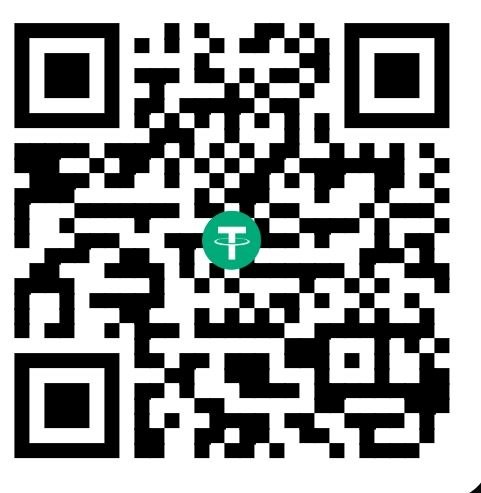
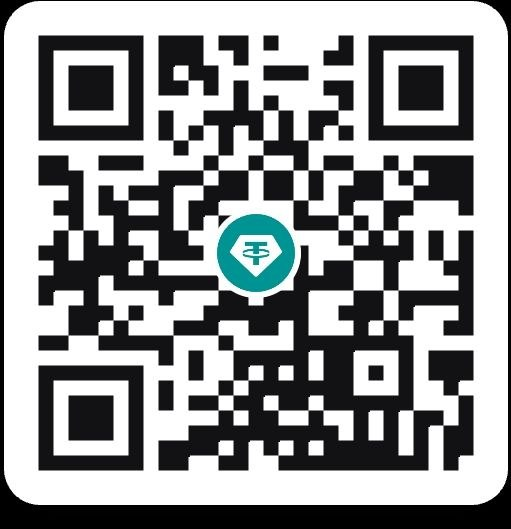
Add files via upload

diff --git a/public/app.js b/public/app.js
@@ -110,7 +110,7 @@ async function refreshFee() { const amount = Number($('#amount-input').value); i
 ['#amount-input','#currency-input','#fee-payer-input'].forEach(selector => $(selector).addEventListener(selector === '#amount-input' ? 'input' : 'change', refreshFee));
 $('#create-deal').onsubmit = async event => { event.preventDefault(); const form = event.currentTarget; try { const deal = await api('/api/deals', { method:'POST', body:JSON.stringify(Object.fromEntries(new FormData(form))) }); form.reset(); state.deals.unshift(deal); notify(`Escrow ${deal.code} created.`); showDeal(deal); } catch (error) { message(form, error.message); } };
 
-function copy(value, button) { navigator.clipboard.writeText(value).then(() => { const original = button.textContent; button.textContent = 'Copied'; setTimeout(() => button.textContent = original, 1200); }); }
+async function copy(value, button) { const original = button?.textContent || 'Copy'; let copied = false; try { if (navigator.clipboard?.writeText) { await navigator.clipboard.writeText(String(value)); copied = true; } } catch {} if (!copied) { const field = document.createElement('textarea'); field.value = String(value); field.setAttribute('readonly', ''); Object.assign(field.style, { position:'fixed', left:'-9999px', top:'0', opacity:'0' }); document.body.append(field); field.select(); try { copied = document.execCommand('copy'); } catch {} field.remove(); } if (copied && button) { button.textContent = 'Copied ✓'; setTimeout(() => { button.textContent = original; }, 1400); } else if (!copied) notify('Copy was blocked. Select the address and copy it manually.'); }
 function myRole(deal) { return deal.parties.find(p => String(p.user) === String(state.user.id))?.role; }
 function statusLabel(deal) { if (deal.status !== 'Closed') return deal.status; if (deal.finalStatus === 'Released') return 'Released · Escrow closed'; if (deal.finalStatus === 'Refunded') return 'Refunded · Escrow closed'; if (deal.finalStatus === 'Cancelled') return 'Cancelled · Escrow closed'; return 'Escrow closed'; }
 function statusTone(deal) { if (deal.status === 'Funded') return 'funded'; if (deal.status === 'Closed' && deal.finalStatus === 'Released') return 'released'; if (deal.status === 'Closed' && deal.finalStatus === 'Refunded') return 'refunded'; return ''; }
@@ -188,7 +188,7 @@ function renderDealActions(deal) {
   if (deal.status !== 'Closed' && !deal.parties.some(person => ['XCROW Support','Escrow live support'].includes(person.name))) { const support = document.createElement('button'); support.className = 'copy'; support.textContent = 'Connect Escrow live support 🛟'; support.onclick = () => updateDeal(`/api/deals/${deal._id}/support`, () => 'Escrow live support has joined this escrow.'); place(support); }
 }
 const baseShowDeal = showDeal;
-showDeal = async deal => { await baseShowDeal(deal); $('#chat .chat-connecting')?.remove(); renderDealActions(deal); if (deal.currency === 'USDT' && myRole(deal) === deal.depositRole) { const chain = deal.cryptoChain || deal.payments?.at(-1)?.chain || 'TRC20'; const isBep20 = chain === 'BEP20'; const address = isBep20 ? '0x352b897c40ae74619ed792932a1e561ebcb7331e' : 'THESvopuBtMGHnbok39ZUBh2EkV7m4Kwne'; const label = isBep20 ? 'BEP20 · BNB Smart Chain' : 'TRC20 · TRON'; const payment = deal.payments?.at(-1); const box = $('#deal-view .usdt-payment'); if (box) { box.innerHTML = `<b>USDT deposit · ${label} 💎</b><p>Amount to deposit: <b>${Number(deal.fee?.buyerTotal || deal.amount).toLocaleString()} USDT</b></p><img src="${isBep20 ? '/usdt-bep20-qr.png' : '/usdt-trc20-qr.png'}" alt="USDT ${label} QR code"><p class="notice">Send USDT using ${label} only. The secure XCROW checkout verifies and confirms payment automatically. 📡</p><code>${address}</code><button class="copy" id="copy-crypto-address" type="button">Copy ${chain} address</button>${deal.status === 'Ready to deposit' && myRole(deal) === deal.depositRole ? '<button class="button" id="deposit" type="button">Continue to secure crypto payment ↗</button>' : payment?.checkoutUrl && payment.status === 'pending' ? '<button class="button" id="resume-crypto" type="button">Open secure crypto checkout ↗</button>' : ''}`; $('#copy-crypto-address').onclick = event => copy(address, event.target); $('#deposit')?.addEventListener('click', () => startCheckout(deal)); $('#resume-crypto')?.addEventListener('click', () => location.assign(payment.checkoutUrl)); } } };
+showDeal = async deal => { await baseShowDeal(deal); $('#chat .chat-connecting')?.remove(); renderDealActions(deal); if (deal.currency === 'USDT' && myRole(deal) === deal.depositRole) { const chain = deal.cryptoChain || deal.payments?.at(-1)?.chain || 'TRC20'; const isBep20 = chain === 'BEP20'; const address = isBep20 ? '0xa76061d3293c2c7af5a840f089d41dafa8402b7c' : 'THESvopuBtMGHnbok39ZUBh2EkV7m4Kwne'; const label = isBep20 ? 'BEP20 · BNB Smart Chain' : 'TRC20 · TRON'; const payment = deal.payments?.at(-1); const box = $('#deal-view .usdt-payment'); if (box) { box.innerHTML = `<b>USDT deposit · ${label} 💎</b><p>Amount to deposit: <b>${Number(deal.fee?.buyerTotal || deal.amount).toLocaleString()} USDT</b></p><img src="${isBep20 ? '/usdt-bep20-qr.png' : '/usdt-trc20-qr.png'}" alt="USDT ${label} QR code"><p class="notice">Send USDT using ${label} only. The secure XCROW checkout verifies and confirms payment automatically. 📡</p><code>${address}</code><button class="copy" id="copy-crypto-address" type="button">Copy ${chain} address</button>${deal.status === 'Ready to deposit' && myRole(deal) === deal.depositRole ? '<button class="button" id="deposit" type="button">Continue to secure crypto payment ↗</button>' : payment?.checkoutUrl && payment.status === 'pending' ? '<button class="button" id="resume-crypto" type="button">Open secure crypto checkout ↗</button>' : ''}`; $('#copy-crypto-address').onclick = event => copy(address, event.target); $('#deposit')?.addEventListener('click', () => startCheckout(deal)); $('#resume-crypto')?.addEventListener('click', () => location.assign(payment.checkoutUrl)); } } };
 const escrowActionEmojiObserver = new MutationObserver(() => { document.querySelectorAll('#deal-view .action-row button').forEach(button => { const label = button.textContent.trim(); if (label.startsWith('Release to seller')) button.textContent = `🔓 ${label}`; else if (label.startsWith('Agree to refund')) button.textContent = `💸 ${label}`; else if (label.startsWith('Refund agreement sent')) button.textContent = `💸 ${label}`; else if (label === 'Complete refund') button.textContent = '↩ Complete refund'; }); }); escrowActionEmojiObserver.observe($('#deal-view'), { childList:true, subtree:true });
 const showDealWithMpesaMaintenance = showDeal;
 showDeal = async deal => {
